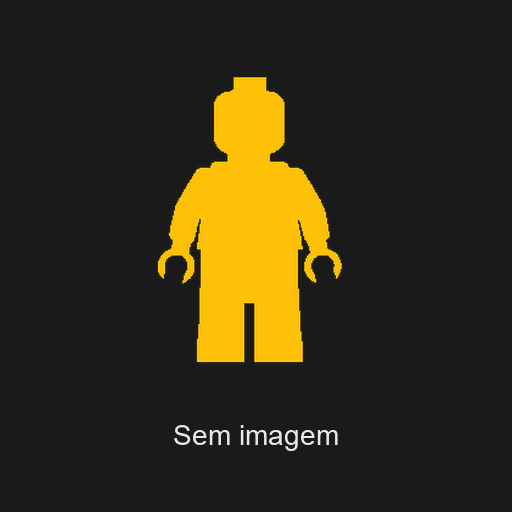
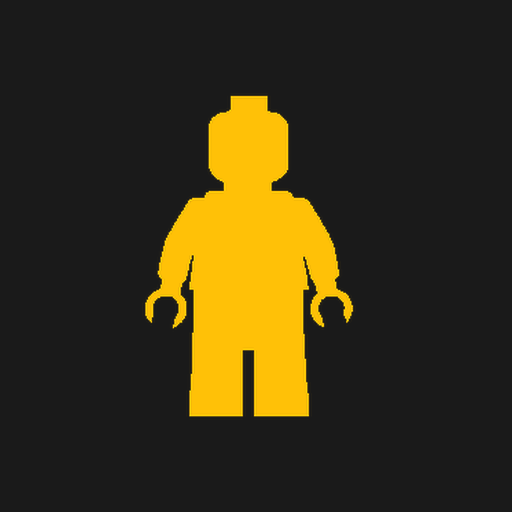
Remove Sem imagem caption from the missing-photo silhouette.

Changed region(s): [[0.2812, 0.125, 0.6875, 0.875]]

diff --git a/favoritos-ui.js b/favoritos-ui.js
@@ -13,7 +13,7 @@ function definirFavoritosVazio(mensagem) {
 
     const figura = document.createElement('img');
     figura.className = 'favoritos-vazio-figura';
-    figura.src = 'img/sem-imagem.png?v=20260719-silhueta';
+    figura.src = 'img/sem-imagem.png?v=20260719-sem-texto';
     figura.alt = '';
     figura.width = 120;
     figura.height = 120;
@@ -122,7 +122,7 @@ function criarCardFavoritoCliente(produto) {
     imagem.alt = produto.nome || 'Produto favorito';
     imagem.loading = 'eager';
     imagem.decoding = 'sync';
-    imagem.onerror = () => { imagem.src = 'img/sem-imagem.png?v=20260719-silhueta'; };
+    imagem.onerror = () => { imagem.src = 'img/sem-imagem.png?v=20260719-sem-texto'; };
 
     const nome = document.createElement('strong');
     nome.textContent = produto.nome || 'Produto';

diff --git a/app-carrinho.js b/app-carrinho.js
@@ -15,11 +15,11 @@ function obterImagemAtualCarrinho(item, produtoCompleto) {
         ? obterImagemPrincipalProduto(produtoCompleto)
         : '';
 
-    if (imagemAtual && imagemAtual !== 'img/sem-imagem.png?v=20260719-silhueta') {
+    if (imagemAtual && imagemAtual !== 'img/sem-imagem.png?v=20260719-sem-texto') {
         return imagemAtual;
     }
 
-    return item?.imagem || 'img/sem-imagem.png?v=20260719-silhueta';
+    return item?.imagem || 'img/sem-imagem.png?v=20260719-sem-texto';
 }
 
 async function garantirProdutosCarrinhoNoCatalogo() {

diff --git a/carrinho-core.js b/carrinho-core.js
@@ -152,8 +152,8 @@ function atualizarCarrinho(opcoes = {}) {
         imagem.src = otimizarImagemCloudinary(imagemSrc, 180);
         imagem.alt = item.nome;
         imagem.onerror = () => {
-            if (imagem.src.indexOf('img/sem-imagem.png?v=20260719-silhueta') === -1) {
-                imagem.src = 'img/sem-imagem.png?v=20260719-silhueta';
+            if (imagem.src.indexOf('img/sem-imagem.png?v=20260719-sem-texto') === -1) {
+                imagem.src = 'img/sem-imagem.png?v=20260719-sem-texto';
             }
         };
 

diff --git a/loja-produtos.js b/loja-produtos.js
@@ -379,7 +379,7 @@ function criarCardProduto(prod) {
     }
 
     listaImagens = listaImagens.filter(url => url && typeof url === 'string' && url.trim() !== '');
-    const imagemFallback = 'img/sem-imagem.png?v=20260719-silhueta';
+    const imagemFallback = 'img/sem-imagem.png?v=20260719-sem-texto';
     const imagensOtimizadas = listaImagens.map(url => otimizarImagemCloudinary(url, 520));
     const urlPrincipal = listaImagens[0] || imagemFallback;
     const imagemResponsiva = otimizarImagemCloudinarySrcset(urlPrincipal);

diff --git a/app-util.js b/app-util.js
@@ -112,7 +112,7 @@ function obterImagemPrincipalProduto(prod = {}) {
         }
     }
     listaImagens = listaImagens.filter(url => url && typeof url === 'string' && url.trim() !== '');
-    return listaImagens.length > 0 ? listaImagens[0] : 'img/sem-imagem.png?v=20260719-silhueta';
+    return listaImagens.length > 0 ? listaImagens[0] : 'img/sem-imagem.png?v=20260719-sem-texto';
 }
 
 function utilizadorAdmin(user) {
